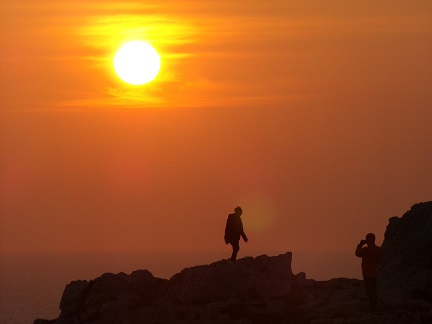
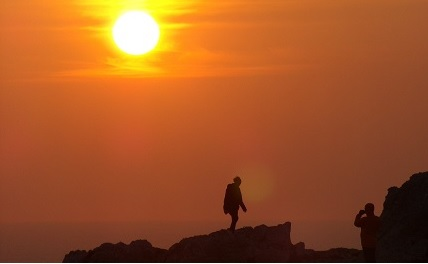
redimensionnement img competence

Changed region(s): [[0.0, 0.6061, 1.0, 1.0], [0.1519, 0.0, 0.6075, 0.3333]]

diff --git a/index.html b/index.html
@@ -5,6 +5,7 @@
     <meta charset="UTF-8">
     <link rel="stylesheet" href="https://cdnjs.cloudflare.com/ajax/libs/font-awesome/6.1.1/css/all.min.css" integrity="sha512-KfkfwYDsLkIlwQp6LFnl8zNdLGxu9YAA1QvwINks4PhcElQSvqcyVLLD9aMhXd13uQjoXtEKNosOWaZqXgel0g==" crossorigin="anonymous" referrerpolicy="no-referrer" />
     <meta http-equiv="X-UA-Compatible" content="IE=edge">
+    <meta name="description" content="Osteopathe sur Villeneuve les Beziers, je traite les douleurs diverses telles que cervicalgies, traumatismes dus au sport, aux accidents de la vie quotidienne.."/>
     <link rel="preconnect" href="https://fonts.googleapis.com">
 <link rel="preconnect" href="https://fonts.gstatic.com" crossorigin>
 <link href="https://fonts.googleapis.com/css2?family=Raleway:wght@100;300;600&family=Roboto:ital,wght@0,100;0,300;0,400;0,500;0,700;1,100;1,300;1,400;1,500&display=swap" rel="stylesheet"> 
@@ -192,7 +193,7 @@
                                   <p> De nombreux parents lui font confiance et y ont recours aujourd'hui.</p>
                                   <p> Il existe de nombreuses techniques ostéopathiques douces adaptées à chaque âge et à chaque enfant.</p>
                                   <div class="align_image">
-                                      <img src="img/mere.jpg" alt="enfant">
+                                      <img src="img/Enfant retouche 1.jpg" alt="enfant">
                                   </div>
                               </div>
                               </div>

diff --git a/CSS/style.css b/CSS/style.css
@@ -1070,6 +1070,10 @@ background:rgba(0, 0, 0, 0.15);}
   padding-right: 10px;}
   .information_contact h4
   {text-align: center;}
+  #competences img
+  { border-radius:0 ; -webkit-border-radius:0 ; -moz-border-radius:0 ; -ms-border-radius:0 ; -o-border-radius:0 ; 
+  object-fit: cover;
+  height: 174px;}
  
 /*-----------------------responsive mobile-------------------------*/
 @media screen and (max-width: 770px)
